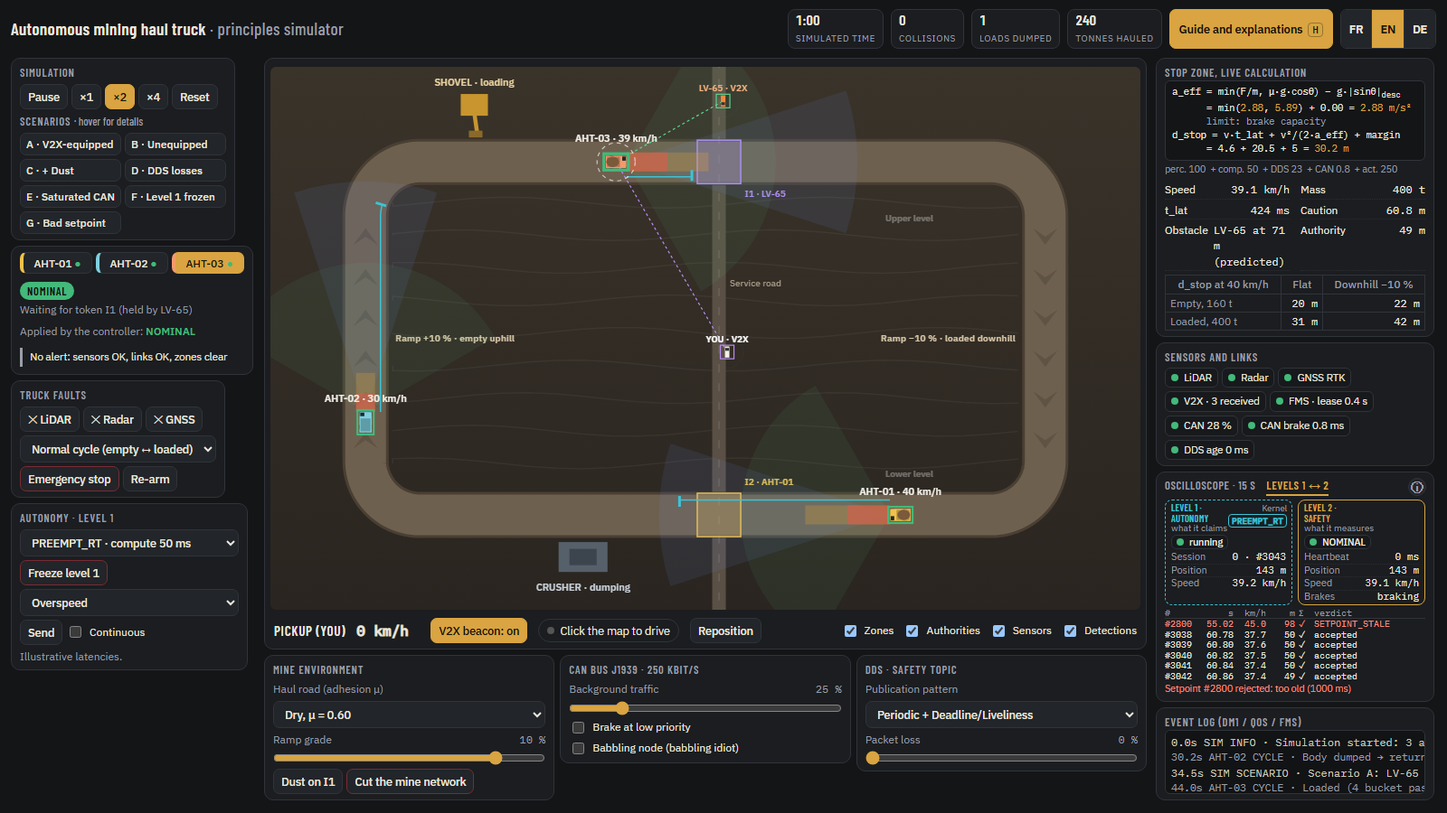
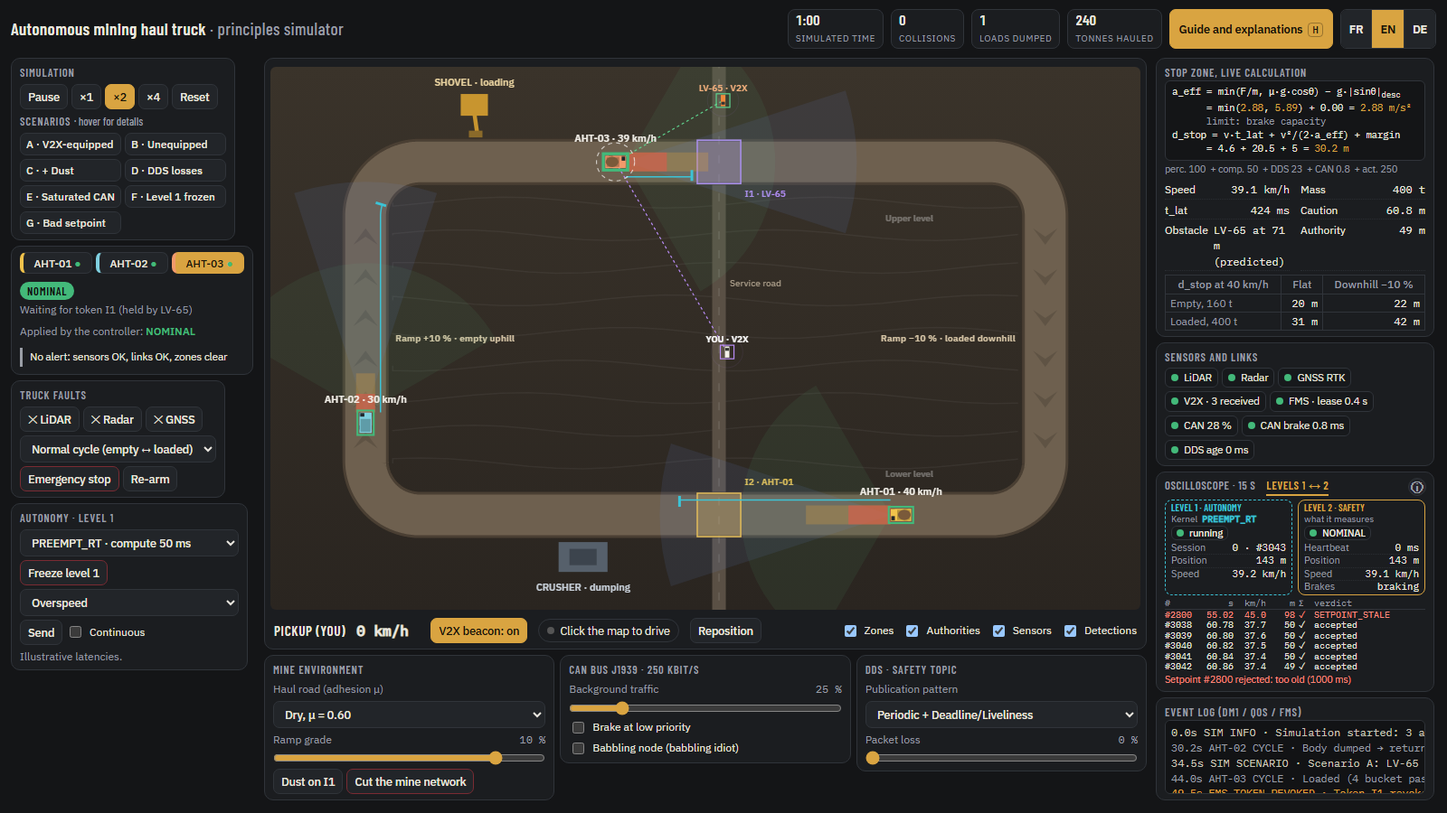
feat(002): kernel as the second line of the level 1 block, version inline
Replaces the corner tag, which the owner did not want: the kernel and the chosen version
share the line under the title, level 2 keeps its caption on the same line, and position
and speed stay aligned between the two blocks.

diff --git a/index.html b/index.html
@@ -178,16 +178,15 @@ canvas#map{display:block;border-radius:6px;outline:none;cursor:crosshair}
 .tabs2 button:hover{border-bottom-color:var(--line)}
 .tabs2 button.on{color:var(--accent);border-bottom-color:var(--accent)}
 .l12blocks{display:grid;grid-template-columns:minmax(0,1fr) minmax(0,1fr);gap:6px;align-items:stretch}
-.blk{position:relative;border:1px solid var(--line);border-radius:8px;padding:2px 6px;font-size:11px;line-height:1.22;min-width:0}
+.blk{border:1px solid var(--line);border-radius:8px;padding:2px 6px;font-size:11px;line-height:1.22;min-width:0}
 .blk.l1{border-style:dashed;border-color:var(--cyan)}
 .blk.l2{border-color:var(--accent)}
-/* Titre sur deux lignes dans la partie gauche ; la partie droite est réservée à la configuration du niveau 1 (le noyau). */
-.blk h4{margin:0;max-width:calc(100% - 64px);min-height:2.2em;font:600 10.5px/1.1 var(--display);letter-spacing:.02em;text-transform:uppercase}
-.blk .kern{position:absolute;top:3px;right:5px;display:flex;flex-direction:column;align-items:flex-end;line-height:1.2}
-.blk .kern i{font-style:normal;color:var(--muted);font-size:9.5px}
-.blk .kern b{font:600 9.5px var(--mono);color:var(--cyan);border:1px solid var(--cyan);border-radius:4px;padding:0 3px;white-space:nowrap}
+.blk h4{margin:0;font:600 10.5px/1.2 var(--display);letter-spacing:.02em;text-transform:uppercase;white-space:nowrap}
 .blk.l1 h4{color:var(--cyan)}.blk.l2 h4{color:var(--accent)}
-.blk small{display:block;color:var(--muted);font-size:10px;line-height:1.2;margin-bottom:1px}
+.blk small{display:block;color:var(--muted);font-size:10px;height:12px;line-height:12px;margin-bottom:1px}
+/* Seconde ligne du niveau 1 : le noyau choisi, en ligne avec son intitulé */
+.blk small.kl{display:flex;gap:5px;align-items:center;white-space:nowrap}
+.blk small.kl b{font:600 10px var(--mono);color:var(--cyan)}
 .blk .chip{display:inline-block;font:500 10.5px var(--body);padding:0 5px;margin-bottom:2px;white-space:nowrap}
 .blk>div{display:flex;justify-content:space-between;gap:4px;border-bottom:1px dotted #2a2d32;padding:0}
 .blk>div:last-child{border-bottom:none}
@@ -983,9 +982,9 @@ const MSG = {
   'l12.l1': ['Niveau 1 · autonomie', 'Level 1 · autonomy', 'Ebene 1 · Autonomie'],
   'l12.l2': ['Niveau 2 · sûreté', 'Level 2 · safety', 'Ebene 2 · Sicherheit'],
   'l12.running': ['en marche', 'running', 'läuft'], 'l12.silent': ['silencieux', 'silent', 'stumm'], 'l12.faulty': ['en défaut', 'in fault', 'fehlerhaft'],
-  'l12.kernel': ['Noyau', 'Kernel', 'Kernel'], 'l12.kRT': ['PREEMPT_RT', 'PREEMPT_RT', 'PREEMPT_RT'], 'l12.kGP': ['généraliste', 'standard', 'Allzweck'],
+  'l12.kernel': ['Noyau', 'Kernel', 'Kernel'], 'l12.kRT': ['PREEMPT_RT', 'PREEMPT_RT', 'PREEMPT_RT'], 'l12.kGP': ['généraliste', 'general-purpose', 'Allzweck'],
   'l12.session': ['Session', 'Session', 'Sitzung'],
-  'l12.cl1': ["ce qu'il annonce", 'what it claims', 'was er angibt'], 'l12.cl2': ["ce qu'il mesure", 'what it measures', 'was er misst'],
+  'l12.cl2': ["ce qu'il mesure", 'what it measures', 'was er misst'],
   'l12.hb': ['Battement', 'Heartbeat', 'Herzschlag'],
   'l12.pos': ['Position', 'Position', 'Position'], 'l12.spd': ['Vitesse', 'Speed', 'Tempo'],
   'l12.brake': ['Freins', 'Brakes', 'Bremsen'],
@@ -1962,7 +1961,7 @@ function renderL12(T) {
   const row = (k, v) => `<div><span>${k}</span><span class="num">${v}</span></div>`;
   const b1 = $('blkL1'), b2 = $('blkL2');
   b1.dataset.status = st; b2.dataset.brake = BRAKE_ETAT[br];
-  b1.innerHTML = `<h4>${t('l12.l1')}</h4><span class="kern"><i>${t('l12.kernel')}</i><b>${t(ENV.kernel === 'GP' ? 'l12.kGP' : 'l12.kRT')}</b></span><small>${t('l12.cl1')}</small>` +
+  b1.innerHTML = `<h4>${t('l12.l1')}</h4><small class="kl"><span>${t('l12.kernel')}</span><b>${t(ENV.kernel === 'GP' ? 'l12.kGP' : 'l12.kRT')}</b></small>` +
     `<span class="chip"><i class="${{ running: 'g', silent: 'r', faulty: 'a' }[st]}"></i>${t('l12.' + st)}</span>` +
     row(t('l12.session'), `${A.session} · #${A.seq}`) +
     row(t('l12.pos'), ex ? `${fmt(ex.sClaim, 0)} m` : '—') + row(t('l12.spd'), ex ? `${fmt(ex.vClaim * 3.6, 1)} km/h` : '—');

diff --git a/specs/002-two-level-architecture/tasks.md b/specs/002-two-level-architecture/tasks.md
@@ -60,7 +60,7 @@ Filled in during `/implement`. Every check delivered by this spec has a row; a c
 | Profile reset at scenario launch (AC-22, T-11) | breakage: reset removed | 2026-11-15, T-11. With the general-purpose profile selected: each of A to E sets `ENV.kernel` back to `RT`, writes the `log.kernelReset` line and shows a toast containing `PREEMPT_RT`; the reset button does the same; with PREEMPT_RT already selected nothing is said; F and G keep `GP` and write no reset line. Scenario F (seed 1, 10 s): the fastest truck is the one frozen, the other two keep their level 1, `L1_HEARTBEAT_LOST`, `CONTROLLED_STOP`, the `SCENARIO` log line names the truck. Scenario G: for each of the five defects (chosen in `ENV.l1Defect`) one defective setpoint is rejected with its code, the defect lasts one setpoint, the truck carries on. Finding while testing: `clearAll()` reset `T.l1` and `T.l2` wholesale, which erased the captured setpoints a replay needs; it now only repairs the injected faults (freeze, defect, lost flags) and keeps the history and the session. Breakage: the `ENV.kernel = 'RT'` line removed from `scenario()` → the five A–E tests fail, the reset-button, F, G and no-message tests stay green; reverted. `compare-traces` identical, full suite 184 tests green in 55 s. |
 | Scenarios F and G, 40 seeds (AC-3, AC-6, T-12) | breakage: a rejected setpoint is applied (replaces "controller reads `T.vPlan`", see note) | 2026-11-15, T-12. **F**, 40 seeds in four packets (`tests/helpers/niveaux-scenarios.mjs`): truck `seed mod 3` frozen at 5 to 45 s depending on the seed (ramps, corners, loading); each seed: detection in (0.30 s, 0.34 s], `L1_HEARTBEAT_LOST` at severity 2, `CONTROLLED_STOP` with maximum braking applied, never `EMERGENCY_BRAKE`, truck stopped within 15 s, no setpoint from the frozen level 1, no collision: all green. **G**, 40 seeds in four packets: the five defects at three moments (cruising, near the end of the authority after a network cut, stopped while loading) plus 10 seeds in a dust cloud, each case played twice from the same preparation (control run without defect, then with it): the verdict names the right defect, the accepted setpoint is at every step the planner's of this step or of the previous one (a rejected setpoint is never applied), speed above the section limit no higher than the control run + 0.05 m/s, never beyond the authority: all green. Breakage 1: `l2Refuse` also applies the rejected demand → the four G packets and the dust test fail (`the accepted setpoint differed from the planner's … a rejected setpoint was applied`), the F packets stay green; breakage 2: heartbeat cause removed → the F packets fail (`seed 1: AHT-02 frozen at 12 s: no L1_HEARTBEAT_LOST at severity 2`, `the truck did not stop within 15 s`); both reverted. **Note**: the breakage planned in this row (`control()` reads `T.vPlan`) could not prove the G checks, since defects never touch the planner's own `vPlan`; replaced as above. **Refinement found while writing G**: the `BEYOND_MA` defect now also asks for the line speed instead of the planner's slower demand (a demand that really would carry the truck past its authority), `dGoal` + 30 m as planned. Full suite 193 tests in 31 s locally; `compare-traces` identical. |
 | Sudden obstacle (AC-13, T-13) | breakage: Δ not applied to the obstacle report | 2026-11-15, T-13. Line speed set to exactly 40 km/h on the flat straight (`P.vNom`, in the test page only), truck at steady speed after 5 s, a stationary vehicle appears 22 m ahead of its centre (about 12 m of clear distance, inside both stop zones). Distance from appearance to standstill: **empty** PREEMPT_RT 12.86 m, general-purpose 15.08 m, difference **2.22 m**; **loaded** 22.89 m and 25.11 m, difference **2.22 m**; expected speed × latency difference = 11.11 × 0.2 = 2.22 m, asserted within ±0.3 m (one step of travel is 0.22 m). The intrusion is seen at the first step with PREEMPT_RT and 0.22 s later in the general-purpose profile. Finding: with delivery tested as `at <= sim.t`, the 0.2 s delay arrived one step late (accumulated clock, 2.44 m measured); the link now delivers with a 1e-9 s tolerance (traces unchanged). Breakage: the obstacle report written straight into level 2 without the link delay → difference 0.00 m, both tests fail (`Expected: > 1.92, Received: 0.0001`); reverted. Full suite 195 tests green, `compare-traces` identical. |
-| Layout at 1600×900 (plan approval, T-14) | breakage: card 900 px high | 2026-11-15, T-14. `tests/vues.spec.mjs`, FR / EN / DE at 1600×900: the page does not scroll, no card leaves the screen or is squeezed, no column hides content behind an inner scroll, the new card is displayed. **Placement amended** (plan section 5): measured on the unchanged page, the environment strip is 161 px high and 976 px wide for three cards, so a fourth card would have narrowed all four and shrunk the map; the left column ends at 552 px of 886 px with 330 px free. The card "Autonomie · niveau 1" therefore sits under "Pannes du tombereau". First version (title on two lines, two labels, three-line help, long button labels) ended at 885 px in French, 1 px from the edge: compacted to selects with aria-labels, a one-line help and short button labels, now ending at **774 px (FR), 725 px (EN), 790 px (DE)** of 886. Scenario buttons F and G added (7 buttons, two columns). Controls tested by real clicks: kernel select (labels `PREEMPT_RT kernel · compute 50 ms` / `General-purpose kernel · compute 250 ms` read from `P`), freeze / restart button on the selected truck (tabs), defect select + Send for the five defects, Continuous box until unticked, scenario buttons F and G. Breakage: `#cardL1{height:900px;flex-shrink:0}` → FR/EN/DE fail (`card "Autonomie · niveau 1" leaves the screen (588–1488 px of 900)`, `column .ctrl hides content behind an inner scroll (1424 px in 822 px)`); a first breakage with `height:600px` did not fail (the card shrinks to its content, no real defect), which is why the "squeezed card" check exists; reverted. Static translation checks and the runtime translation tests green; full suite 205 tests, `compare-traces` identical. ****Owner review, 2026-11-15 (A-12, partial)**: on the owner's 1920×1080 screens (French, German, English, real fonts) everything fits, but in English the left column scrolled sideways, a defect the first layout test could not see because it only measured vertical overflow, at 1600×900, with fallback fonts. Reproduced: at 1600×900 the column scrolls sideways in English (298 px of content in 270) and German (283 in 270); on the owner's screen the real fonts make the select wider still. New tests (`tests/vues.spec.mjs`): the columns and the page do not scroll sideways at 1600×900 and 1920×1080 in FR / EN / DE, and a stress variant replaces every font by a wider monospace one and requires the new card to stay inside its column. Proof of failure: the first version of the checks failed on the unfixed page (`column .ctrl scrolls sideways (298 px of content in 270 px)`, and with the wider font `card "Autonomy" sticks out of its column by 81 px` in English). Fix: the card is capped to the width of its column and its selects truncate instead of widening it (`#cardL1{max-width:100%}`, `#cardL1 select{width:100%;min-width:0;text-overflow:ellipsis}`), and the kernel labels are shorter (`PREEMPT_RT · compute 50 ms`, `General-purpose · compute 250 ms`; French `Généraliste · calcul 250 ms`; German `Allzweck · Rechenzeit 250 ms`). Screenshot regenerated. Full suite green. **Owner's visual change, 2026-11-15**: the kernel moves from a row of the level 1 block to a two-line tag in its top right corner (the word "Kernel" over `PREEMPT_RT`, `généraliste`, `standard` or `Allzweck`), level with the title and its caption, and the title wraps on two lines to its left. With the row gone, "Position" and "Speed" are now on the same line in both blocks. Test (`tests/vues.spec.mjs`, FR / EN / DE, both profiles): the tag touches the right edge and starts in the first line, covers the first two lines, the title does not run under it, the kernel is no longer a row, the status chips and the position and speed rows have the same vertical position in both blocks. Found by the test: the English label `general-purpose` was too wide for the tag and would have squeezed the title, so the tag says `standard` in English. Breakage: the kernel row put back → the three tests fail. Cost in height: the worst German case (three isolated rejections and a recovery) leaves 98 px to the event log (minimum 90, was 103), after tightening the blocks' line height; the owner's check A-12 covers it. Screenshot regenerated. Full suite green. Controls, proof recorded at T-23**: the freeze / send handlers removed from the click wiring → the four control tests fail (freeze button text and state, freeze on the selected truck, five defects with Send, Continuous box), the layout and select tests stay green; reverted. |
+| Layout at 1600×900 (plan approval, T-14) | breakage: card 900 px high | 2026-11-15, T-14. `tests/vues.spec.mjs`, FR / EN / DE at 1600×900: the page does not scroll, no card leaves the screen or is squeezed, no column hides content behind an inner scroll, the new card is displayed. **Placement amended** (plan section 5): measured on the unchanged page, the environment strip is 161 px high and 976 px wide for three cards, so a fourth card would have narrowed all four and shrunk the map; the left column ends at 552 px of 886 px with 330 px free. The card "Autonomie · niveau 1" therefore sits under "Pannes du tombereau". First version (title on two lines, two labels, three-line help, long button labels) ended at 885 px in French, 1 px from the edge: compacted to selects with aria-labels, a one-line help and short button labels, now ending at **774 px (FR), 725 px (EN), 790 px (DE)** of 886. Scenario buttons F and G added (7 buttons, two columns). Controls tested by real clicks: kernel select (labels `PREEMPT_RT kernel · compute 50 ms` / `General-purpose kernel · compute 250 ms` read from `P`), freeze / restart button on the selected truck (tabs), defect select + Send for the five defects, Continuous box until unticked, scenario buttons F and G. Breakage: `#cardL1{height:900px;flex-shrink:0}` → FR/EN/DE fail (`card "Autonomie · niveau 1" leaves the screen (588–1488 px of 900)`, `column .ctrl hides content behind an inner scroll (1424 px in 822 px)`); a first breakage with `height:600px` did not fail (the card shrinks to its content, no real defect), which is why the "squeezed card" check exists; reverted. Static translation checks and the runtime translation tests green; full suite 205 tests, `compare-traces` identical. ****Owner review, 2026-11-15 (A-12, partial)**: on the owner's 1920×1080 screens (French, German, English, real fonts) everything fits, but in English the left column scrolled sideways, a defect the first layout test could not see because it only measured vertical overflow, at 1600×900, with fallback fonts. Reproduced: at 1600×900 the column scrolls sideways in English (298 px of content in 270) and German (283 in 270); on the owner's screen the real fonts make the select wider still. New tests (`tests/vues.spec.mjs`): the columns and the page do not scroll sideways at 1600×900 and 1920×1080 in FR / EN / DE, and a stress variant replaces every font by a wider monospace one and requires the new card to stay inside its column. Proof of failure: the first version of the checks failed on the unfixed page (`column .ctrl scrolls sideways (298 px of content in 270 px)`, and with the wider font `card "Autonomy" sticks out of its column by 81 px` in English). Fix: the card is capped to the width of its column and its selects truncate instead of widening it (`#cardL1{max-width:100%}`, `#cardL1 select{width:100%;min-width:0;text-overflow:ellipsis}`), and the kernel labels are shorter (`PREEMPT_RT · compute 50 ms`, `General-purpose · compute 250 ms`; French `Généraliste · calcul 250 ms`; German `Allzweck · Rechenzeit 250 ms`). Screenshot regenerated. Full suite green. **Owner's visual change, 2026-11-15 (second version, the first was refused)**: the kernel is the **second line** of the level 1 block, right under the title, with the chosen version on the same line (`Kernel  general-purpose`, `Noyau  généraliste`, `Kernel  PREEMPT_RT`, `Kernel  Allzweck`); it replaces the caption "what it claims" of level 1, level 2 keeps "what it measures" on the same second line, and the kernel is no longer a row. A first version put the kernel in a tag in the top right corner with a two-line title; the owner did not want it. Because the second lines have the same fixed height, "Position" and "Speed" are on the same line in both blocks. Test (`tests/vues.spec.mjs`, FR / EN / DE, both profiles): label and version on the same line, one line high, right after the title, the title on one line, no kernel row, level 2's caption on the same line, status chips, position and speed rows at the same vertical position in both blocks. Found by the test: a 1 px difference between the caption and the kernel line shifted every row below; both lines now have a fixed 12 px height. Breakage: the kernel row put back → the three tests fail. The worst German case (three isolated rejections and a recovery) leaves 108 px to the event log (minimum 90), better than before the change (103) because the title is on one line again. Screenshot regenerated. Full suite green. Controls, proof recorded at T-23**: the freeze / send handlers removed from the click wiring → the four control tests fail (freeze button text and state, freeze on the selected truck, five defects with Send, Continuous box), the layout and select tests stay green; reverted. |
 | Pane blocks and exchanges (AC-9, AC-10, T-15, T-16) | breakages: brake state read from the planner instead of the model (T-15); a reason stored as pre-translated text (T-16) | 2026-11-15, T-15 (blocks). The oscilloscope card has two tabs (`role=tablist`): "Oscilloscope · 15 s" and "Niveaux 1 ↔ 2"; the pane has two distinct blocks, level 1 dashed in cyan ("what it claims": status running / silent / in fault, kernel, session and sequence, claimed position and speed) and level 2 solid in amber ("what it measures": supervisor state, heartbeat age, measured position, measured speed, brake state released / service braking / full braking / brake ECU watchdog). `tests/vues.spec.mjs`: statuses follow the model (a frozen level 1 is `silent`, repeated defects make it `in fault`), level 2 shows `full braking` and `CONTROLLED_STOP` during the stop, position and speed equal the model's, selecting another truck changes the content (and the status), the oscilloscope canvas has a non-zero size again after switching back, F and G open the pane, layout green in FR / EN / DE with the pane open and a frozen level 1. Findings: `canvas#scope{display:block}` overrode the `hidden` attribute (fixed with `canvas#scope[hidden]{display:none}`); the first pane (blocks with chips in the title and long labels) was 186 px high and overflowed the right column by 75 px with a frozen truck (`CONTROLLED_STOP` chip wrapping), so it was reworked to 118 px blocks with symmetric rows (position, speed), the status as a chip row, and a card of 156 px, the same height as the oscilloscope card; cockpit tab font fixed (the base rule came after the media query and overrode it). Measured right column at 1600×900: log card 280 px (FR), 236 px (DE) left. Breakage: brake state taken from the planner's demand (`T.vPlan < 0.1`) instead of the model → `data-brake` shows `service`, expected `full`: the stop test fails, the nine others stay green; reverted. Full suite 215 tests, `compare-traces` identical. **T-16 (exchanges), 2026-11-15**: the pane lists the five latest judged setpoints, plus the rejections that have scrolled out of that window (three at most, kept until replaced), as rows `#seq · timestamp (s) · speed demand (km/h) · goal distance (m) · checksum ✓/✗ · verdict` (`accepted`, or the rejection code, never translated, in red), read from stored data (`T.l2.ex`, `T.l2.rej`) and written at display time; under them the reason of the last rejection as a `{k, p}` message, and during a recovery `Resume possible in x s`. `tests/vues.spec.mjs`: five rows equal to the model's exchanges field by field with consecutive sequence numbers; a stale rejection (valid checksum ✓) stays listed after 30 accepted setpoints, the three latest rejections are kept, an altered setpoint shows ✗; a language switch EN → FR → DE retranslates the verdicts, the reasons (`rejected: too old` / `rejetée : trop ancienne` / `abgelehnt: zu alt`) and the block labels while the code `SETPOINT_STALE` never changes; the recovery countdown (0.3 to 0.6 s after 0.5 s of stable heartbeat) disappears at release; FR / EN / DE open the pane with no console error other than the blocked fonts and no `i18nMissing` key; worst-case layout (three isolated rejections still listed, recovery under way) inside the screen in the three languages: right column 822/822 px, log card 154 px (FR), 127 px (EN), 110 px (DE). Findings: my `.r` class collided with the existing `.r` status colour (red rows), renamed `.xr`; the first list overflowed the right column by 26 px in German, fixed by 1.2 line height, one-line reason without label, and the log card's basis reduced to 90 px while the pane is open (the value the page already uses under 820 px of height). Breakage: a rejection reason stored pre-translated (`t(k, p)` instead of `M(k, p)`) → the language-switch test fails (`Expected substring: "rejetée : trop ancienne", Received: "Setpoint #250 rejected: too old (1000 ms)"`), the seven others stay green; reverted. Full suite 223 tests, `compare-traces` identical. **Found by the first CI run (T-23)**: the test "switching back to the oscilloscope gives its canvas a non-zero size again" passed locally and failed on Node 24 on GitHub (`Expected: > 100, Received: 0`): it read the canvas buffer before the next animation frame had resized it, and its `expect.poll` was vacuous. It now polls the canvas width until it is above 100 px (30 repeats green locally); proof that it can fail: the canvas buffer forced to width 0 in `resize()` → `the canvas buffer is resized on the next animation frame`, timeout; reverted. The `scheduleResize()` call in `showSideTab` turned out to be redundant (removing it changes nothing, another resize trigger covers it) and is kept as a safeguard. |
 | No hard-coded latency (AC-15, T-17) | negative test: `250 ms` written in the HTML | 2026-11-15, T-17. **Static** (`tests/statique.spec.mjs`, `verifierLatenceSansChiffre`): green on the real page (the card `cardL1`, the pane `paneL12` and the static texts `ui.l1H`, `ui.l1Help`, `ui.scF`… carry no `<number> ms`); negative tests: `General-purpose kernel · 250 ms` written in the select is reported with its line, `brake latency 0,8 ms` written in the pane is reported, `Illustrative latencies, 50 ms.` in a static text is reported by key, a missing block (`id="cardL1"` renamed) is reported rather than accepted. **Dynamic** (`tests/vues.spec.mjs`, FR / EN / DE): the line under the formula shows five terms `perc. 100 + calc. 50 + DDS 23 + CAN 0.8 + act. 250` read from the model (perception and actuator from `P`, computing from `latCpu()`, DDS and CAN from the truck's measured latencies), nothing highlighted with PREEMPT_RT; with the general-purpose kernel the computing term reads 250 and is the only highlighted one, the sum of the five terms is within 1.5 ms of `t_lat`, `t_lat` grows by exactly 200 ms and the grid cell shows it. Layout: one line in the three languages (a first version with the total and long labels wrapped to two lines in EN and DE), right column worst case log card 149 px (FR), 123 px (EN), 105 px (DE). Breakage: the computing term shown from `P.latCpuRT` instead of `latCpu()` → the dynamic test fails (`Expected: 250, Received: 50`); reverted. Full suite 229 tests, `compare-traces` identical. |
 | Guide text (AC-19, T-20) | breakage: the checksum limitation removed from the German text | 2026-11-15, T-20. The four existing guide tabs now cover the new behaviour in French, English and German: "Prise en main" (the card "Autonomie · niveau 1", scenarios F and G, the second tab "Niveaux 1 ↔ 2" and the ⓘ button), "Visite guidée" (three new steps: level 1 proposes and level 2 disposes with scenario F, a wrong setpoint never reaches the brakes with scenario G, the price of a general-purpose kernel), "Choix de modélisation" (three new items: level 1 proposes and level 2 allows or blocks; why this stop is not latched while the emergency is; the kernel profile as a worst case), "Limites et sources" (the six limitations of plan section 10: exact measurements of level 2, level 2 never fails and its two channels are not simulated, home-made checksum, sensor diagnostics bypass level 1, two illustrative kernel profiles with only the difference simulated, illustrative architecture and no conformity claim). No latency or threshold figure is written in the new prose (they come from the model). `tests/vues.spec.mjs`: 3 languages × 4 tabs × the key phrases. Breakage: the checksum limitation removed from the German text → only the German test fails (`Expected substring: "eigene Rechnung"`); reverted. Full suite 275 tests green. |

diff --git a/docs/continuous-improvement.md b/docs/continuous-improvement.md
@@ -38,7 +38,7 @@ Statuses: `OPEN`, `IN PROGRESS`, `CLOSED` (effect observed), `ABANDONED` (reason
 | A-9 | SC-8, spec 002 | Proposal: a `/plan` that adds anything to the cockpit contains a measured layout budget (height and width of each column and card at 1600×900, in the three languages), taken from the unchanged page before the placement is chosen. | Owner decides, Claude drafts the wording | At the next spec that adds or moves a panel. | OPEN |
 | A-10 | SC-9, spec 002 | Proposal to add to the Conventions of CLAUDE.md, "Decided spec 002": a browser test never reads state that the page refreshes on a timer or an animation frame without polling it until the model-derived value appears. A vacuous `expect.poll` (one that cannot fail) counts as no wait. | Owner decides, Claude drafts the wording | Before the next `/implement`; and the first time a `Checks` run is red on one Node version only. | OPEN |
 | A-11 | RE-7, spec 002 | Tighten the tolerance of AC-13 and of its test from ±0.3 m (one step of travel) to ±0.05 m, now that the model gives exactly speed × latency difference (2.22 m). It needs a spec amendment, since the tolerance is written in the spec and pinned in the plan. | Owner | At the next spec that touches the kernel profile or the link delay. | OPEN |
-| A-12 | RE-9 and RE-10, spec 002 | Owner's visual check, with the real fonts, of the cockpit at 1600×900 in French, English and German, with the Levels 1 ↔ 2 tab open (plan approval, condition 3). The layout test runs on the fallback fonts and, in the German worst case, leaves 103 px to the event log (minimum 90): any new line in the right column breaks it first in German. | Owner | Before the pull request of spec 002 is merged. Part done 2026-11-15: the owner looked at 1920×1080 in French, German and English with real fonts (found the sideways scroll in English, fixed, `ed02ec8`). **Remaining**: the same look at 1600×900 with the Levels 1 ↔ 2 tab open (the worst German case now leaves 98 px to the log, minimum 90), and the owner's usual screen size if it is neither of these. Asked on 2026-11-15 to be reminded: Claude cannot schedule a reminder, so this line is the reminder, re-read at the start of each session. | OPEN |
+| A-12 | RE-9 and RE-10, spec 002 | Owner's visual check, with the real fonts, of the cockpit at 1600×900 in French, English and German, with the Levels 1 ↔ 2 tab open (plan approval, condition 3). The layout test runs on the fallback fonts and, in the German worst case, leaves 103 px to the event log (minimum 90): any new line in the right column breaks it first in German. | Owner | Before the pull request of spec 002 is merged. Part done 2026-11-15: the owner looked at 1920×1080 in French, German and English with real fonts (found the sideways scroll in English, fixed, `ed02ec8`). **Remaining**: the same look at 1600×900 with the Levels 1 ↔ 2 tab open (the worst German case leaves 108 px to the log, minimum 90), and the owner's usual screen size if it is neither of these. Asked on 2026-11-15 to be reminded: Claude cannot schedule a reminder, so this line is the reminder, re-read at the start of each session. | OPEN |
 
 ## 5. Session journal
 Most recent first. Template:
